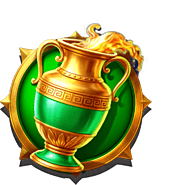
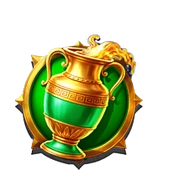
Resize Helios yellow blue suns and green chalice

diff --git a/themes/helios-triple-sun.js b/themes/helios-triple-sun.js
@@ -1,1 +1,1 @@
-window.SLOT_GAME_CONFIG = {"schemaVersion":1,"id":"helios-triple-sun-preview","assets":{"frame":{"portrait":"assets/helios-triple-sun/frame.webp?v=helios-preview-2","fallback":"assets/helios-triple-sun/frame.webp?v=helios-preview-2"},"loading":"assets/helios-triple-sun/loading.webp?v=helios-preview-2","spin":{"normal":"assets/helios-triple-sun/spin-normal.webp?v=helios-preview-1","pressed":"assets/helios-triple-sun/spin-pressed.webp?v=helios-preview-1"},"indicators":{"balance":"assets/helios-triple-sun/transparent.webp?v=helios-preview-1","bet":"assets/helios-triple-sun/transparent.webp?v=helios-preview-1","lines":"assets/helios-triple-sun/transparent.webp?v=helios-preview-1"},"announcementFrame":"assets/helios-triple-sun/transparent.webp?v=helios-preview-1","bigWin":"assets/helios-triple-sun/logo.webp?v=helios-preview-1","lowWin":"assets/helios-triple-sun/logo.webp?v=helios-preview-1","paytableFrame":"assets/helios-triple-sun/transparent.webp?v=helios-preview-1","winFrames":[{"key":"helios-gold-win","src":"assets/helios-triple-sun/win-glow.webp?v=helios-preview-1"}]},"symbols":[{"key":"blue-gem","label":"Gema azul","asset":"assets/helios-triple-sun/blue-gem.webp?v=helios-preview-1"},{"key":"green-gem","label":"Gema verde","asset":"assets/helios-triple-sun/green-gem.webp?v=helios-preview-1"},{"key":"purple-gem","label":"Gema violeta","asset":"assets/helios-triple-sun/purple-gem.webp?v=helios-preview-1"},{"key":"orange-gem","label":"Gema ámbar","asset":"assets/helios-triple-sun/orange-gem.webp?v=helios-preview-1"},{"key":"heart","label":"Corazón","asset":"assets/helios-triple-sun/heart.webp?v=helios-preview-1"},{"key":"blue-ring","label":"Anillo celeste","asset":"assets/helios-triple-sun/blue-ring.webp?v=helios-preview-1"},{"key":"gold-coin","label":"Moneda solar","asset":"assets/helios-triple-sun/gold-coin.webp?v=helios-preview-1"},{"key":"crown-coin","label":"Corona solar","asset":"assets/helios-triple-sun/crown-coin.webp?v=helios-preview-1"},{"key":"chalice","label":"Cáliz","asset":"assets/helios-triple-sun/chalice.webp?v=helios-preview-1"},{"key":"goddess","label":"Diosa solar","asset":"assets/helios-triple-sun/goddess.webp?v=helios-preview-1"},{"key":"wild-sun","label":"WILD solar","asset":"assets/helios-triple-sun/wild-sun.webp?v=helios-preview-1"},{"key":"scatter-red","label":"Sol rojo","asset":"assets/helios-triple-sun/scatter-red.webp?v=helios-preview-2"},{"key":"scatter-yellow","label":"Sol dorado","asset":"assets/helios-triple-sun/scatter-yellow.webp?v=helios-preview-2"},{"key":"scatter-blue","label":"Sol azul","asset":"assets/helios-triple-sun/scatter-blue.webp?v=helios-preview-2"},{"key":"bonus-crown","label":"BONUS","asset":"assets/helios-triple-sun/bonus-crown.webp?v=helios-preview-1"}],"visual":{"symbolScale":0.94,"symbolScaleY":1,"symbolFit":"cell-width","reelPerspective":0.015},"defaults":{"balance":1000,"bet":20,"jackpot":0,"lines":20,"minBet":10,"maxBet":500,"betStep":10,"minLines":5,"maxLines":20,"lineStep":5,"jackpotContributionRate":0,"minimumJackpotContribution":0,"bigWinBetMultiplier":10,"lowWinBetMultiplier":3,"freeSpins":0},"specialSymbols":{"wild":"wild-sun","scatters":["scatter-red","scatter-yellow","scatter-blue"],"bonus":"bonus-crown","animatedWin":"goddess"},"rules":{"cols":5,"rows":3,"paylines":[[1,1,1,1,1],[0,0,0,0,0],[2,2,2,2,2],[0,1,2,1,0],[2,1,0,1,2],[0,0,1,2,2],[2,2,1,0,0],[1,0,0,0,1],[1,2,2,2,1],[1,0,1,0,1],[1,2,1,2,1],[0,1,1,1,0],[2,1,1,1,2],[0,1,0,1,0],[2,1,2,1,2],[1,1,0,1,1],[1,1,2,1,1],[0,0,2,0,0],[2,2,0,2,0],[0,2,0,2,0]],"lineColors":["#ffd166","#4cc9f0","#ef476f","#a78bfa","#06d6a0","#fb8500","#00b4d8","#f72585","#90be6d","#f9c74f","#43aa8b","#577590","#b5179e","#e63946","#52b788","#ffbe0b","#48cae4","#c77dff","#80ed99","#ff6b6b"],"symbolWeights":[95,95,90,90,90,85,70,60,50,45,40,20,20,20,20],"weightTotal":890,"paytableCounts":[3,4,5],"minimumMatch":3,"specialMinimumMatch":3,"paytable":{"0":{"3":0.8,"4":2,"5":8},"1":{"3":0.8,"4":2,"5":8},"2":{"3":0.8,"4":2,"5":8},"3":{"3":0.8,"4":2,"5":8},"4":{"3":0.8,"4":2,"5":8},"5":{"3":1.2,"4":4,"5":16},"6":{"3":1.5,"4":5,"5":20},"7":{"3":2,"4":8,"5":32},"8":{"3":2.5,"4":10,"5":40},"9":{"3":3,"4":12,"5":60},"10":{"3":5,"4":20,"5":100},"11":{"3":0.2,"4":1,"5":4},"12":{"3":0.2,"4":1,"5":4},"13":{"3":0.2,"4":1,"5":4}},"bonusFreeSpins":{"3":5,"4":8,"5":15},"paytableOrder":[0,1,2,3,4,5,6,7,8,9,10,11,12,13,14],"payoutScale":1},"features":{"allowFreeSpinRetrigger":false,"keyboardControls":true,"turboSpin":{"multiplier":2.2}},"ui":{"name":"Helios Triple Sun · prueba inicial","numberLocale":"es-AR","scatterPaytableLabel":"{label}","freeSpinsSuffix":"giros","paytableMultiplierSuffix":"×","paytableMultiplierPrecision":2,"announcementAlt":"Helios Triple Sun","frameAlt":"Fondo Helios Triple Sun","bigWinAlt":"Premio grande de prueba","lowWinAlt":"Premio de prueba","paytableBrand":"HELIOS TRIPLE SUN · PROTOTIPO","paytableTitle":"Tabla provisional","paytableSubtitle":"20 líneas · premios de demostración","paytableSymbolHeader":"Símbolo","rulesTitle":"REGLAS DE PRUEBA","spinLabel":"Girar","menuLabel":"Premios","loadingLabel":"Cargando Helios","lowWinTitle":"¡PREMIO!","labels":{"balance":"SALDO","bet":"APUESTA","lines":"LÍNEAS","win":"PREMIO","jackpot":"JACKPOT"},"messages":{"autoSpin":"AUTO","stopAutoSpin":"PARAR","stopAutoSpinOverlay":"PARAR AUTO","insufficientBalance":"SALDO INSUFICIENTE","bonusAward":"BONUS +{awarded} GIROS GRATIS\nRESTANTES: {remaining}","scatterAward":"SCATTER +{amount}\nPREMIO TOTAL: {total}","prize":"PREMIO: {amount}"},"paytableRules":["PROTOTIPO: premios y probabilidades provisionales, no son los del proveedor.","Los premios de línea cuentan de izquierda a derecha en 20 líneas configuradas para esta prueba.","Los tres soles de colores se cuentan juntos como SCATTER en esta primera versión.","3, 4 o 5 BONUS otorgan 5, 8 o 15 giros gratis de prueba.","Las cascadas originales y la matemática/RTP oficial todavía no están implementados."]},"colors":{"accent":"#ffd56b","glow":"#ff9d28","highlight":"#fff4cb","panel":"#180c38","particlePalette":["#ffd66b","#ffad32","#fff3c6","#7ddfff","#db77ff"],"lowWinParticlePalette":["#ffd34d","#fff0a8","#d89039","#fff"],"winningTint":"#fff3c6"}};
+window.SLOT_GAME_CONFIG = {"schemaVersion":1,"id":"helios-triple-sun-preview","assets":{"frame":{"portrait":"assets/helios-triple-sun/frame.webp?v=helios-preview-2","fallback":"assets/helios-triple-sun/frame.webp?v=helios-preview-2"},"loading":"assets/helios-triple-sun/loading.webp?v=helios-preview-2","spin":{"normal":"assets/helios-triple-sun/spin-normal.webp?v=helios-preview-1","pressed":"assets/helios-triple-sun/spin-pressed.webp?v=helios-preview-1"},"indicators":{"balance":"assets/helios-triple-sun/transparent.webp?v=helios-preview-1","bet":"assets/helios-triple-sun/transparent.webp?v=helios-preview-1","lines":"assets/helios-triple-sun/transparent.webp?v=helios-preview-1"},"announcementFrame":"assets/helios-triple-sun/transparent.webp?v=helios-preview-1","bigWin":"assets/helios-triple-sun/logo.webp?v=helios-preview-1","lowWin":"assets/helios-triple-sun/logo.webp?v=helios-preview-1","paytableFrame":"assets/helios-triple-sun/transparent.webp?v=helios-preview-1","winFrames":[{"key":"helios-gold-win","src":"assets/helios-triple-sun/win-glow.webp?v=helios-preview-1"}]},"symbols":[{"key":"blue-gem","label":"Gema azul","asset":"assets/helios-triple-sun/blue-gem.webp?v=helios-preview-1"},{"key":"green-gem","label":"Gema verde","asset":"assets/helios-triple-sun/green-gem.webp?v=helios-preview-1"},{"key":"purple-gem","label":"Gema violeta","asset":"assets/helios-triple-sun/purple-gem.webp?v=helios-preview-1"},{"key":"orange-gem","label":"Gema ámbar","asset":"assets/helios-triple-sun/orange-gem.webp?v=helios-preview-1"},{"key":"heart","label":"Corazón","asset":"assets/helios-triple-sun/heart.webp?v=helios-preview-1"},{"key":"blue-ring","label":"Anillo celeste","asset":"assets/helios-triple-sun/blue-ring.webp?v=helios-preview-1"},{"key":"gold-coin","label":"Moneda solar","asset":"assets/helios-triple-sun/gold-coin.webp?v=helios-preview-1"},{"key":"crown-coin","label":"Corona solar","asset":"assets/helios-triple-sun/crown-coin.webp?v=helios-preview-1"},{"key":"chalice","label":"Cáliz","asset":"assets/helios-triple-sun/chalice.webp?v=helios-preview-2"},{"key":"goddess","label":"Diosa solar","asset":"assets/helios-triple-sun/goddess.webp?v=helios-preview-1"},{"key":"wild-sun","label":"WILD solar","asset":"assets/helios-triple-sun/wild-sun.webp?v=helios-preview-1"},{"key":"scatter-red","label":"Sol rojo","asset":"assets/helios-triple-sun/scatter-red.webp?v=helios-preview-3"},{"key":"scatter-yellow","label":"Sol dorado","asset":"assets/helios-triple-sun/scatter-yellow.webp?v=helios-preview-3"},{"key":"scatter-blue","label":"Sol azul","asset":"assets/helios-triple-sun/scatter-blue.webp?v=helios-preview-3"},{"key":"bonus-crown","label":"BONUS","asset":"assets/helios-triple-sun/bonus-crown.webp?v=helios-preview-1"}],"visual":{"symbolScale":0.94,"symbolScaleY":1,"symbolFit":"cell-width","reelPerspective":0.015},"defaults":{"balance":1000,"bet":20,"jackpot":0,"lines":20,"minBet":10,"maxBet":500,"betStep":10,"minLines":5,"maxLines":20,"lineStep":5,"jackpotContributionRate":0,"minimumJackpotContribution":0,"bigWinBetMultiplier":10,"lowWinBetMultiplier":3,"freeSpins":0},"specialSymbols":{"wild":"wild-sun","scatters":["scatter-red","scatter-yellow","scatter-blue"],"bonus":"bonus-crown","animatedWin":"goddess"},"rules":{"cols":5,"rows":3,"paylines":[[1,1,1,1,1],[0,0,0,0,0],[2,2,2,2,2],[0,1,2,1,0],[2,1,0,1,2],[0,0,1,2,2],[2,2,1,0,0],[1,0,0,0,1],[1,2,2,2,1],[1,0,1,0,1],[1,2,1,2,1],[0,1,1,1,0],[2,1,1,1,2],[0,1,0,1,0],[2,1,2,1,2],[1,1,0,1,1],[1,1,2,1,1],[0,0,2,0,0],[2,2,0,2,0],[0,2,0,2,0]],"lineColors":["#ffd166","#4cc9f0","#ef476f","#a78bfa","#06d6a0","#fb8500","#00b4d8","#f72585","#90be6d","#f9c74f","#43aa8b","#577590","#b5179e","#e63946","#52b788","#ffbe0b","#48cae4","#c77dff","#80ed99","#ff6b6b"],"symbolWeights":[95,95,90,90,90,85,70,60,50,45,40,20,20,20,20],"weightTotal":890,"paytableCounts":[3,4,5],"minimumMatch":3,"specialMinimumMatch":3,"paytable":{"0":{"3":0.8,"4":2,"5":8},"1":{"3":0.8,"4":2,"5":8},"2":{"3":0.8,"4":2,"5":8},"3":{"3":0.8,"4":2,"5":8},"4":{"3":0.8,"4":2,"5":8},"5":{"3":1.2,"4":4,"5":16},"6":{"3":1.5,"4":5,"5":20},"7":{"3":2,"4":8,"5":32},"8":{"3":2.5,"4":10,"5":40},"9":{"3":3,"4":12,"5":60},"10":{"3":5,"4":20,"5":100},"11":{"3":0.2,"4":1,"5":4},"12":{"3":0.2,"4":1,"5":4},"13":{"3":0.2,"4":1,"5":4}},"bonusFreeSpins":{"3":5,"4":8,"5":15},"paytableOrder":[0,1,2,3,4,5,6,7,8,9,10,11,12,13,14],"payoutScale":1},"features":{"allowFreeSpinRetrigger":false,"keyboardControls":true,"turboSpin":{"multiplier":2.2}},"ui":{"name":"Helios Triple Sun · prueba inicial","numberLocale":"es-AR","scatterPaytableLabel":"{label}","freeSpinsSuffix":"giros","paytableMultiplierSuffix":"×","paytableMultiplierPrecision":2,"announcementAlt":"Helios Triple Sun","frameAlt":"Fondo Helios Triple Sun","bigWinAlt":"Premio grande de prueba","lowWinAlt":"Premio de prueba","paytableBrand":"HELIOS TRIPLE SUN · PROTOTIPO","paytableTitle":"Tabla provisional","paytableSubtitle":"20 líneas · premios de demostración","paytableSymbolHeader":"Símbolo","rulesTitle":"REGLAS DE PRUEBA","spinLabel":"Girar","menuLabel":"Premios","loadingLabel":"Cargando Helios","lowWinTitle":"¡PREMIO!","labels":{"balance":"SALDO","bet":"APUESTA","lines":"LÍNEAS","win":"PREMIO","jackpot":"JACKPOT"},"messages":{"autoSpin":"AUTO","stopAutoSpin":"PARAR","stopAutoSpinOverlay":"PARAR AUTO","insufficientBalance":"SALDO INSUFICIENTE","bonusAward":"BONUS +{awarded} GIROS GRATIS\nRESTANTES: {remaining}","scatterAward":"SCATTER +{amount}\nPREMIO TOTAL: {total}","prize":"PREMIO: {amount}"},"paytableRules":["PROTOTIPO: premios y probabilidades provisionales, no son los del proveedor.","Los premios de línea cuentan de izquierda a derecha en 20 líneas configuradas para esta prueba.","Los tres soles de colores se cuentan juntos como SCATTER en esta primera versión.","3, 4 o 5 BONUS otorgan 5, 8 o 15 giros gratis de prueba.","Las cascadas originales y la matemática/RTP oficial todavía no están implementados."]},"colors":{"accent":"#ffd56b","glow":"#ff9d28","highlight":"#fff4cb","panel":"#180c38","particlePalette":["#ffd66b","#ffad32","#fff3c6","#7ddfff","#db77ff"],"lowWinParticlePalette":["#ffd34d","#fff0a8","#d89039","#fff"],"winningTint":"#fff3c6"}};

diff --git a/helios-triple-sun.html b/helios-triple-sun.html
@@ -59,5 +59,5 @@ html[data-skin="helios"] #menu.menu{display:none!important;}
 </section></main>
 <button id="autoStopOverlay" class="auto-stop-overlay" type="button">PARAR AUTO</button>
 <div id="paytableModal" class="paytable-modal" aria-hidden="true"><div class="paytable-card"><button id="closePaytable" class="paytable-close" aria-label="Cerrar">×</button><div class="paytable-brand"></div><h2></h2><p class="paytable-subtitle"></p><table><thead><tr></tr></thead><tbody id="paytableRows"></tbody></table><div class="paytable-rules"><b></b></div></div></div>
-<script src="phaser.min.js?v=4.2.1"></script><script src="themes/helios-triple-sun.js?v=helios-preview-8"></script><script src="main.js?v=helios-engine-20261019-symbol-fit-4"></script>
+<script src="phaser.min.js?v=4.2.1"></script><script src="themes/helios-triple-sun.js?v=helios-preview-9"></script><script src="main.js?v=helios-engine-20261019-symbol-fit-4"></script>
 </body></html>
